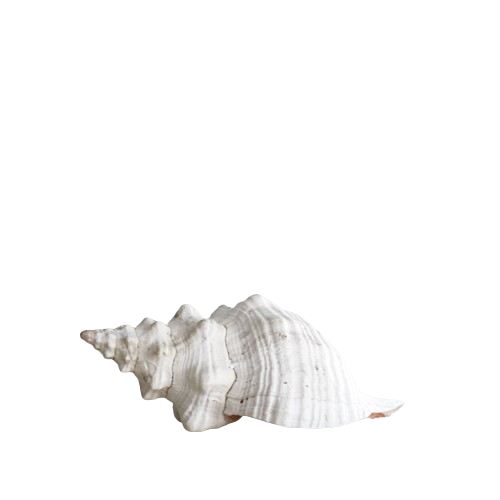
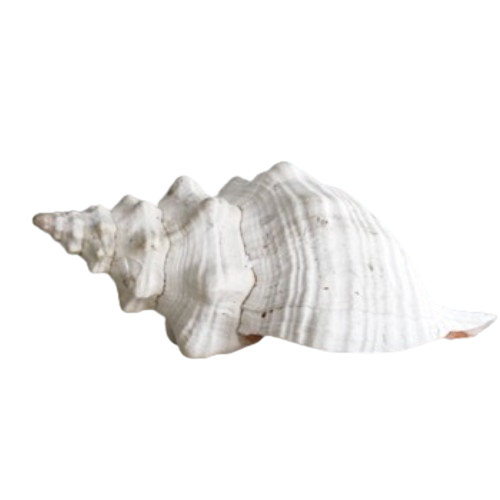
carouselCard bg image added

Changed region(s): [[0.06, 0.3, 0.78, 0.87], [0.87, 0.63, 0.99, 0.69], [0.72, 0.81, 0.81, 0.84]]

diff --git a/src/Pages/Home/Home/CarouselCard/CarouselCard.jsx b/src/Pages/Home/Home/CarouselCard/CarouselCard.jsx
@@ -1,16 +1,13 @@
-import image1 from "../../../../assets/shell.png";
-import image2 from "../../../../assets/women_sea.png";
+import image1 from '../../../../assets/shellBanner.png';
+
 const CarouselCard = () => {
-    return (
-        <div className="grid grid-cols-2">
-            <div className="">
-                <img src={image1} alt="" />
-            </div>
-            <div>
-                <img src={image2} alt="" />
-            </div>
-        </div>
-    );
+  return (
+    <div className="">
+      <div className="flex items-center justify-center">
+        <img src={image1} alt="" className="mx-auto my-0" />
+      </div>
+    </div>
+  );
 };
 
 export default CarouselCard;

diff --git a/src/Pages/Home/Home/Breathtaking/Breathtaking.jsx b/src/Pages/Home/Home/Breathtaking/Breathtaking.jsx
@@ -4,7 +4,7 @@ import logo3 from "../../../../assets/placeholder.png";
 import logo4 from "../../../../assets/camera.png";
 const Breathtaking = () => {
     return (
-        <div className="mx-auto max-w-screen-xl px-4 sm:px-6 lg:px-4 xl:pt-28 lg:pt-28 md:pt-28 py-32">
+        <div className="mx-auto max-w-screen-xl px-4 sm:px-6 lg:px-4 xl:pt-28 lg:pt-28 md:pt-28 pt-32">
             <div className="text-center">
                 <h2 className="text-3xl font-serif text-cyan-500">Go & Discover</h2>
                 <h2 className="text-5xl my-3 font-bold text-gray-900">Breathtaking Cities</h2>
